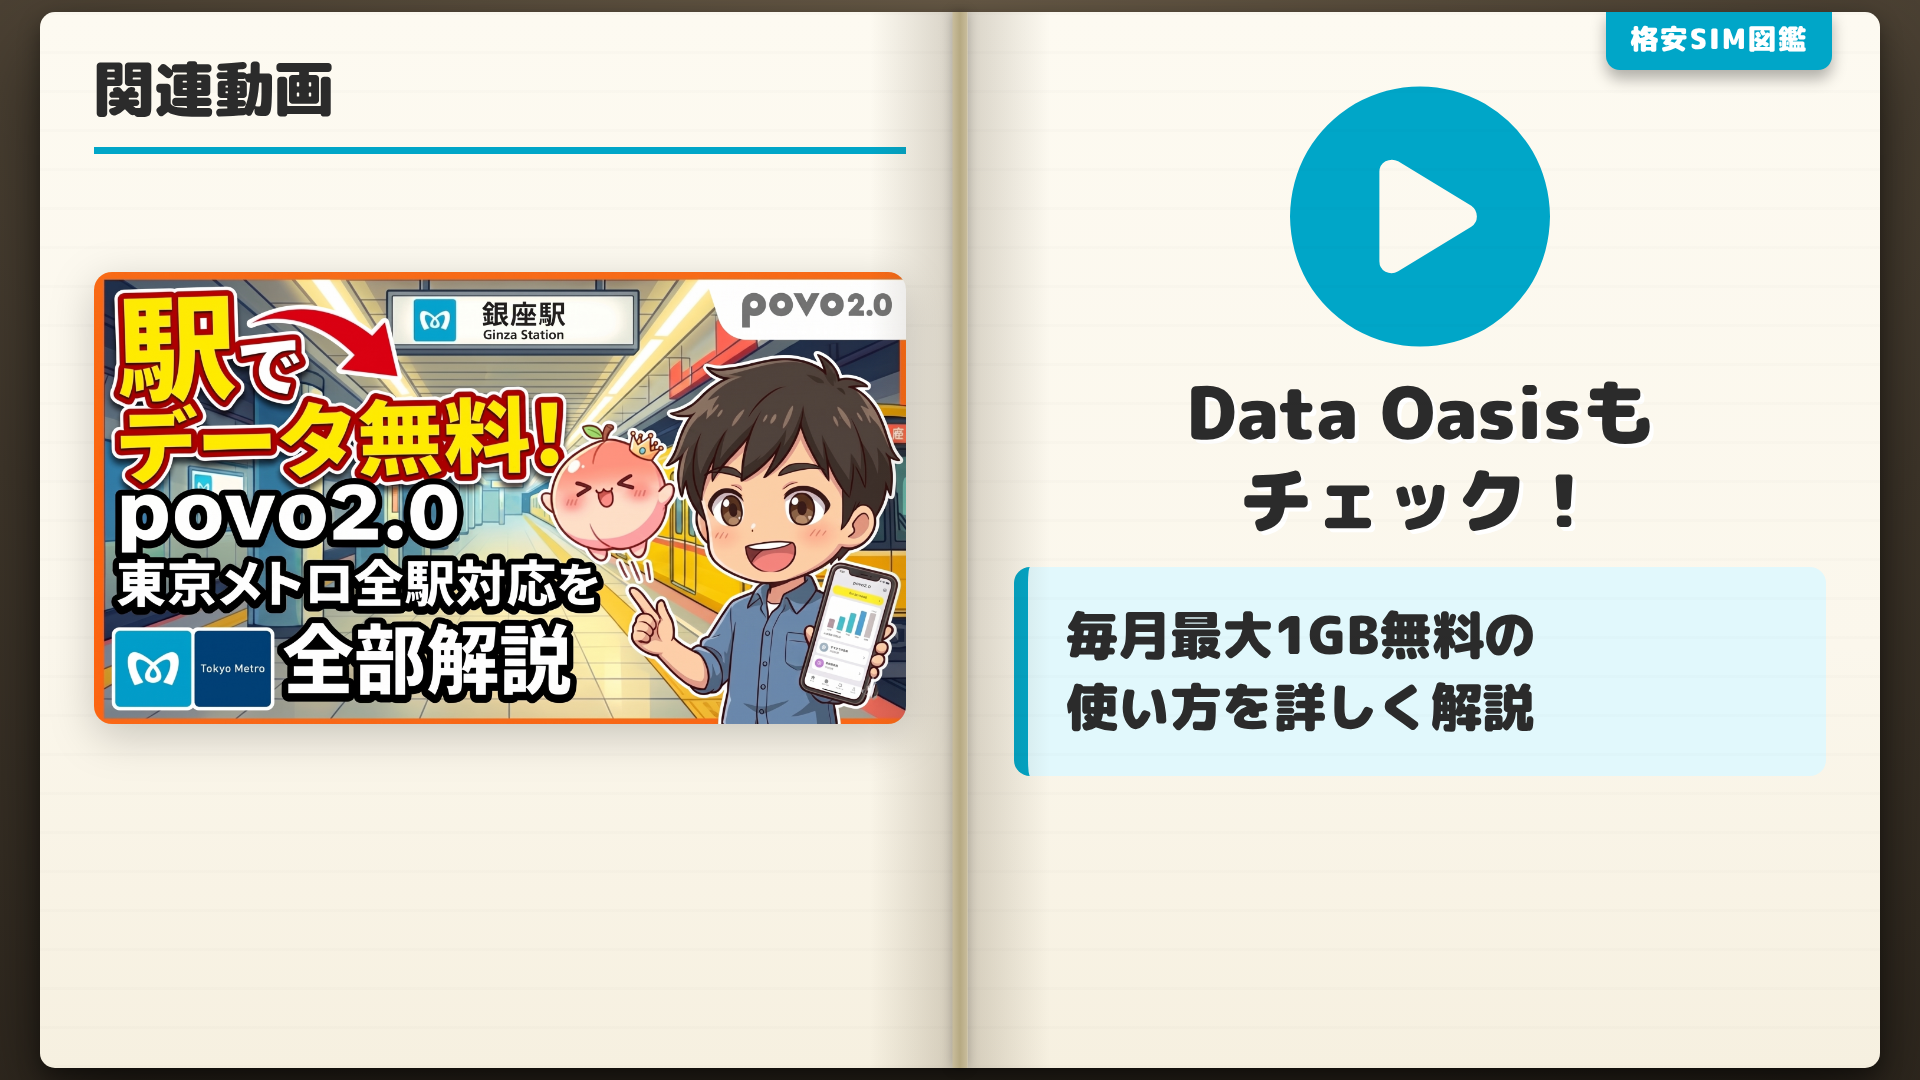
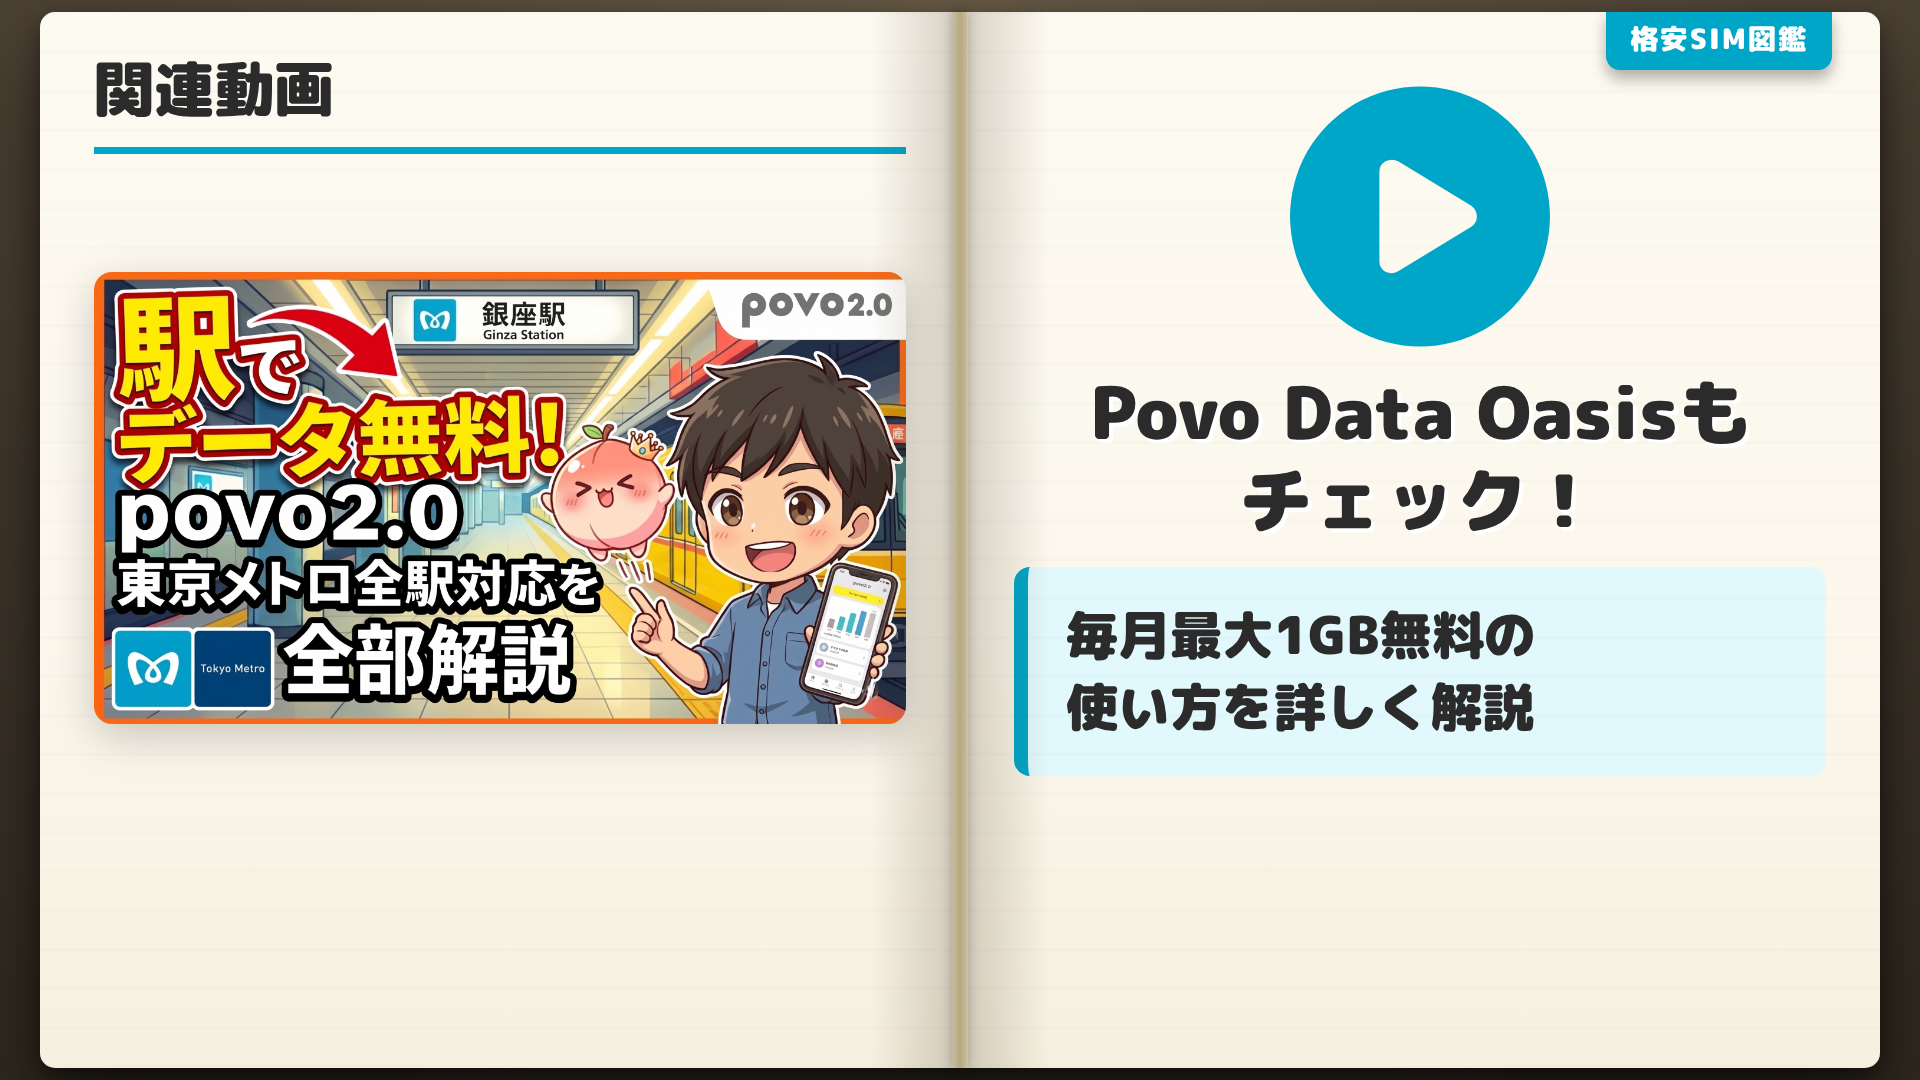
スライド改修

Changed region(s): [[0.5625, 0.3361, 0.9062, 0.4278]]

diff --git a/slides.html b/slides.html
@@ -224,7 +224,7 @@
             transform: translateX(-50%) rotate(45deg)
         }
 
-.cta-icon {
+        .cta-icon {
             width: 190px;
             height: 190px;
             margin: 0 auto;
@@ -235,54 +235,62 @@
             background: var(--brand);
             border-radius: 50%;
             box-shadow: 0 14px 0 var(--brand-deep);
-    font-size: 96px
-}
+            font-size: 96px
+        }
 
-.product-shot {
-    height: 640px;
-}
+        .product-shot {
+            height: 640px;
+        }
 
-.product-shot img {
-    max-height: 620px;
-    border: 5px solid #fff;
-}
+        .product-shot img {
+            max-height: 620px;
+            border: 5px solid #fff;
+        }
 
-.related-thumbnails {
-    display: grid;
-    grid-template-rows: 1fr 1fr;
-    gap: 18px;
-    height: 100%;
-    min-height: 0;
-}
+        .related-thumbnails {
+            display: grid;
+            grid-template-rows: 1fr 1fr;
+            gap: 18px;
+            height: 100%;
+            min-height: 0;
+        }
 
-.related-thumbnails img {
-    width: 100%;
-    height: 100%;
-    min-height: 0;
-    object-fit: contain;
-    border-radius: 16px;
-    filter: drop-shadow(0 8px 14px rgba(0, 0, 0, .18));
-}
+        .related-thumbnails img {
+            width: 100%;
+            height: 100%;
+            min-height: 0;
+            object-fit: contain;
+            border-radius: 16px;
+            filter: drop-shadow(0 8px 14px rgba(0, 0, 0, .18));
+        }
 
-.detail-cards .card {
-    padding: 12px 20px;
-}
+        .detail-cards .card {
+            padding: 12px 20px;
+        }
 
-.detail-cards .card-name {
-    font-size: 34px;
-}
+        .detail-cards .card-name {
+            font-size: 34px;
+        }
 
-.detail-cards .card .line {
-    font-size: 27px;
-}
+        .detail-cards .card .line {
+            font-size: 27px;
+        }
 
-.attention-cards .card-name {
-    font-size: 42px;
-}
+        .attention-cards .card-name {
+            font-size: 42px;
+        }
 
-.attention-cards .card .line {
-    font-size: 32px;
-}
+        .attention-cards .card .rank {
+            grid-row: 1 / -1;
+        }
+
+        .attention-cards .card> :not(.rank) {
+            grid-column: 2;
+        }
+
+        .attention-cards .card .line {
+            font-size: 32px;
+        }
 
         .cards.compact {
             display: grid;
@@ -487,8 +495,7 @@
                 <div class="page-head">注目のトッピング</div>
                 <div class="page-body center">
                     <div class="visual product-shot">
-                        <img src="public/images/temp/povo/povo_12gb_5800.jpg"
-                            alt="データ追加12GB・365日間・5,800円">
+                        <img src="public/images/temp/povo/povo_12gb_5800.jpg" alt="データ追加12GB・365日間・5,800円">
                     </div>
                 </div>
                 <span class="page-no">― 7 ―</span>
@@ -516,8 +523,7 @@
                 <div class="page-head">使い放題をまとめ買い</div>
                 <div class="page-body center">
                     <div class="visual product-shot">
-                        <img src="public/images/temp/povo/povo_matomegai.jpg"
-                            alt="データ使い放題24時間・5回分まとめ買い">
+                        <img src="public/images/temp/povo/povo_matomegai.jpg" alt="データ使い放題24時間・5回分まとめ買い">
                     </div>
                 </div>
                 <span class="page-no">― 8 ―</span>
@@ -560,7 +566,7 @@
                 <div class="page-body center">
                     <div class="metric"><span class="unit">毎月最大</span><span class="value">1</span><span
                             class="unit">GB無料</span></div>
-                    <div class="emph">Data Oasis</div>
+                    <div class="emph">Povo Data Oasis</div>
                     <div class="note">対象場所の近くで利用できます</div>
                 </div>
                 <span class="page-no">― 9 ―</span>
@@ -587,7 +593,7 @@
                         <i class="fa-solid fa-circle-play">
                         </i>
                     </div>
-                    <div class="big-title" style="font-size:72px">Data Oasisも<br>チェック！</div>
+                    <div class="big-title" style="font-size:72px">Povo Data Oasisも<br>チェック！</div>
                     <div class="lead">毎月最大1GB無料の使い方を詳しく解説</div>
                 </div>
             </div>
@@ -740,8 +746,7 @@
                     <div class="related-thumbnails">
                         <img
                             src="public/images/thumbnails/スマホ代を0円にする方法。「povo2.0」なら維持費タダ？メリット・デメリットからahamo・楽天モバイル比較まで.png">
-                        <img
-                            src="public/images/thumbnails/【2026年最新】最強の2枚持ちおすすめ格安SIM組み合わせ3選！_サムネ1.png">
+                        <img src="public/images/thumbnails/【2026年最新】最強の2枚持ちおすすめ格安SIM組み合わせ3選！_サムネ2.png">
                     </div>
                 </div>
             </div>
@@ -852,9 +857,8 @@
                 <div class="page-head">関連動画</div>
                 <div class="page-body">
                     <div class="related-thumbnails">
-                        <img
-                            src="public/images/thumbnails/【2025年最新】楽天モバイルは繋がらない？1年以上使って分かった本音メリット・デメリットを全公開！_サムネ.png">
-                        <img src="public/images/thumbnails/【2026年最新】月額660円で実質使い放題！mineoの最強キャンペーンを徹底解説.png">
+                        <img src="public/images/thumbnails/【2025年最新】楽天モバイルは繋がらない？1年以上使って分かった本音メリット・デメリットを全公開！_サムネ.png">
+                        <img src="public/images/thumbnails/【裏技】mineo歴8年が教える「実質使い放題」の極意！契約前に知らないと損する5つの節約術_サムネ.png">
                     </div>
                 </div>
             </div>
